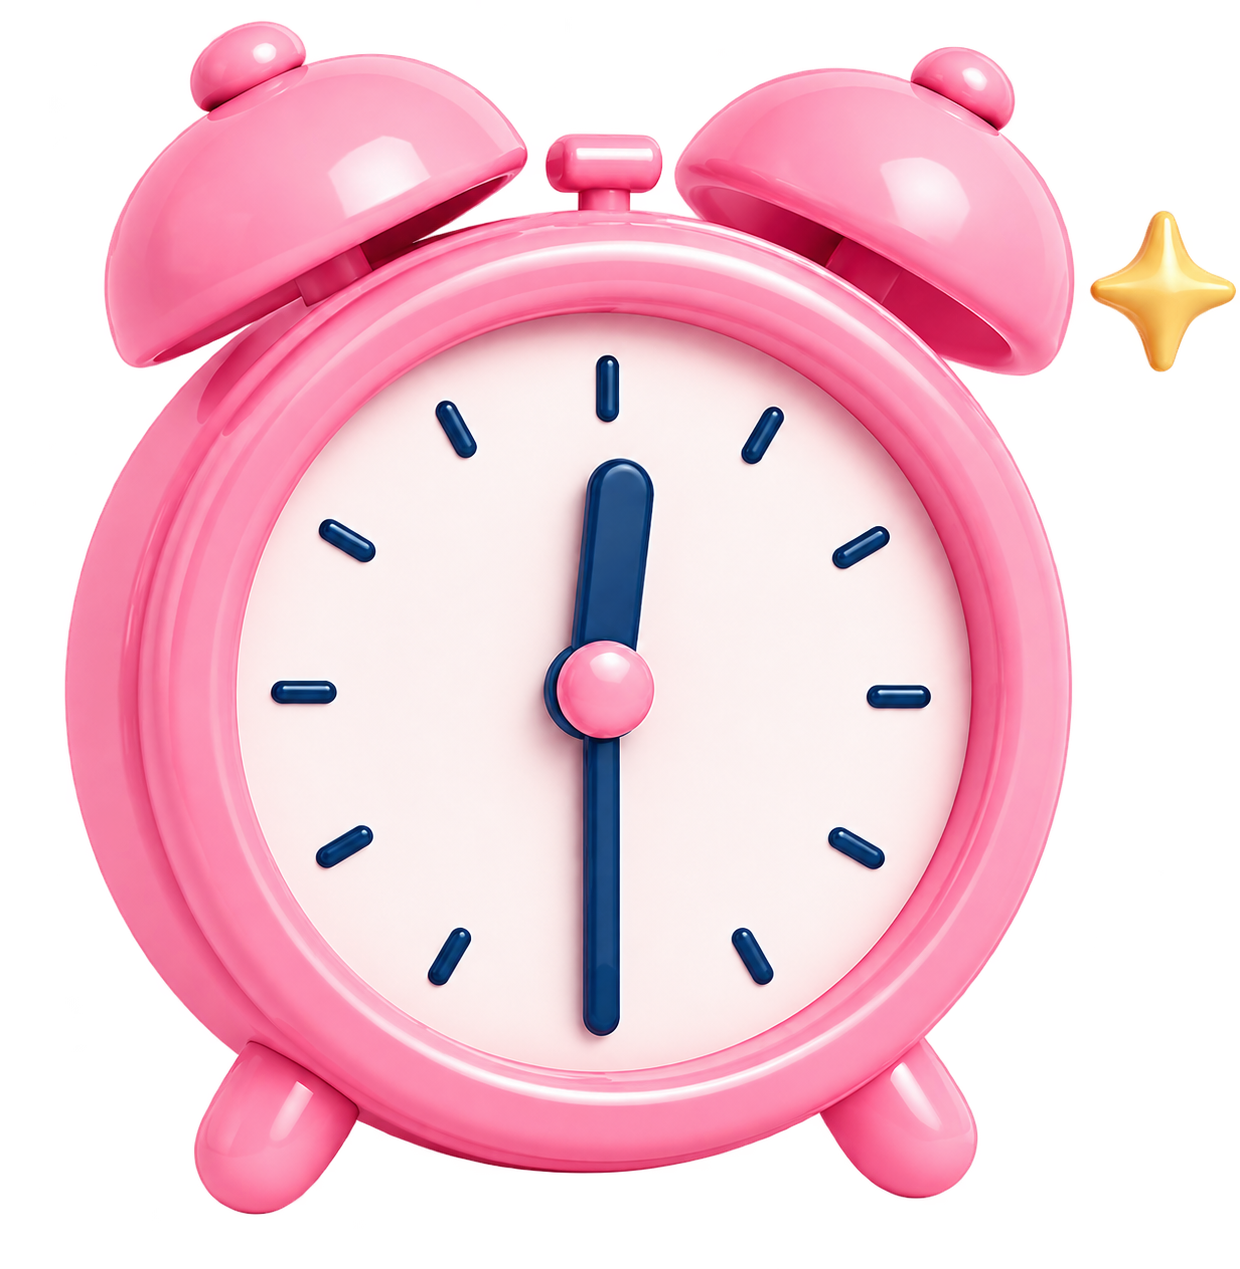
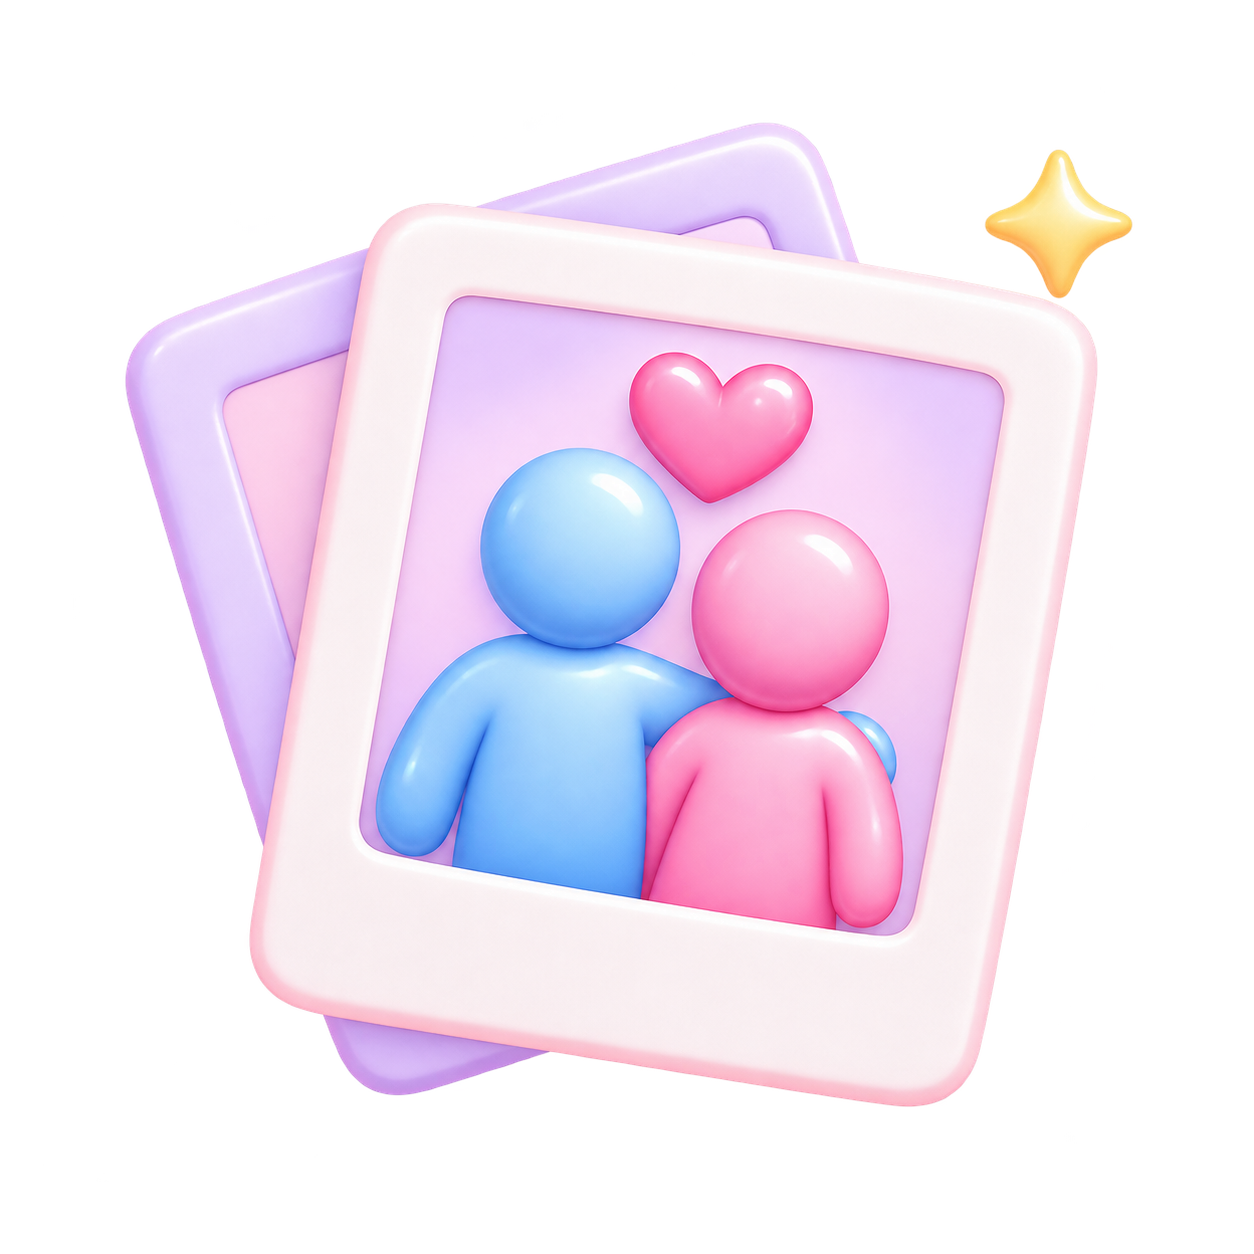
party section bg, twilio checkbox

diff --git a/src/app/new-reveal/page.tsx b/src/app/new-reveal/page.tsx
@@ -18,9 +18,7 @@ import {
   Plus,
   Trash2,
   AlertCircle,
-  Heart,
   ChevronDown,
-  Star,
 } from "lucide-react";
 
 
@@ -111,21 +109,19 @@ function formatRevealDate(d: Date | null): string {
 function SectionHeader({
   iconSrc,
   title,
-  accent,
+  decorSrc,
 }: {
   iconSrc: string;
   title: string;
-  accent: "pink" | "blue";
+  decorSrc: string;
 }) {
-  const main = accent === "pink" ? "#E8449A" : "#3A9FE8";
-  const contrast = accent === "pink" ? "#3A9FE8" : "#E8449A";
   return (
     <div className="flex items-center justify-between gap-3 mb-5 pb-4 border-b border-white/50">
       <div className="flex items-center gap-4 min-w-0">
         <img
           src={iconSrc}
           alt=""
-          className="w-20 h-20 sm:w-24 sm:h-24 object-contain shrink-0"
+          className="w-20 h-20 sm:w-24 sm:h-24 object-contain shrink-0 [filter:drop-shadow(0_6px_14px_rgba(88,28,135,0.35))]"
           onError={(e) => {
             (e.currentTarget as HTMLImageElement).style.display = "none";
           }}
@@ -137,11 +133,14 @@ function SectionHeader({
           {title}
         </h2>
       </div>
-      <div className="hidden sm:flex items-center gap-1 shrink-0 opacity-80">
-        <Star className="w-3.5 h-3.5" style={{ color: contrast, fill: contrast }} />
-        <Heart className="w-5 h-5" style={{ color: main, fill: main }} />
-        <Star className="w-3 h-3 opacity-60" style={{ color: main, fill: main }} />
-      </div>
+      <img
+        src={decorSrc}
+        alt=""
+        className="hidden sm:block w-32 h-32 object-contain shrink-0 opacity-90 [filter:drop-shadow(0_6px_14px_rgba(88,28,135,0.35))]"
+        onError={(e) => {
+          (e.currentTarget as HTMLImageElement).style.display = "none";
+        }}
+      />
     </div>
   );
 }
@@ -337,9 +336,6 @@ export default function NewRevealPage() {
       if (!revealerEmail.trim()) return "Please enter the revealer's email.";
       if (!/^[^\s@]+@[^\s@]+\.[^\s@]+$/.test(revealerEmail.trim())) {
         return "Please enter a valid revealer email.";
-      }
-      if (registryUrl.trim() && !/^https?:\/\//.test(registryUrl.trim())) {
-        return "Please enter a valid registry link (starting with http:// or https://).";
       }
     }
 
@@ -798,8 +794,8 @@ export default function NewRevealPage() {
             </div>
 
             {/* Section 2: Family Details */}
-            <div className="relative overflow-hidden bg-gradient-to-br from-white/65 via-white/55 to-[#3A9FE8]/10 backdrop-blur-md border border-white/50 rounded-3xl p-6 md:p-8 shadow-sm space-y-6">
-              <SectionHeader iconSrc="/images/icon-family.png" title="2. Family Details" accent="blue" />
+            <div className="relative overflow-hidden bg-gradient-to-br from-white/65 via-white/55 to-[#8B5CF6]/10 backdrop-blur-md border border-white/50 rounded-3xl p-6 md:p-8 shadow-sm space-y-6">
+              <SectionHeader iconSrc="/images/icon-family.png" title="2. Family Details" decorSrc="/images/icon-family-decor.png" />
 
               <div className="space-y-4">
                 <div className="flex flex-col gap-1.5">
@@ -814,10 +810,12 @@ export default function NewRevealPage() {
                     placeholder="e.g. Sarah &amp; Michael"
                     value={parentName}
                     onChange={(e) => {
-                      let val = e.target.value;
+                      const raw = e.target.value;
+                      const isDeleting = raw.length < parentName.length;
+                      let val = raw;
                       val = val ? val.charAt(0).toUpperCase() + val.slice(1) : "";
 
-                      if (val.endsWith(" ") && !val.includes("&")) {
+                      if (!isDeleting && val.endsWith(" ") && !val.includes("&")) {
                         const firstWord = val.slice(0, -1);
                         if (firstWord.length > 0 && !firstWord.includes(" ")) {
                           val = `${firstWord} & `;
@@ -894,10 +892,10 @@ export default function NewRevealPage() {
 
             {/* Section 3: Photo Upload (Bundle of Joy only) */}
             {isPremiumPlan && (
-              <div className="relative overflow-hidden bg-gradient-to-br from-white/65 via-white/55 to-[#E8449A]/10 backdrop-blur-md border border-white/50 rounded-3xl p-6 md:p-8 shadow-sm space-y-4">
-                <SectionHeader iconSrc="/images/icon-photo.png" title="3. Photo Upload" accent="pink" />
+              <div className="relative overflow-hidden bg-gradient-to-br from-white/65 via-white/55 to-[#8B5CF6]/10 backdrop-blur-md border border-white/50 rounded-3xl p-6 md:p-8 shadow-sm space-y-4">
+                <SectionHeader iconSrc="/images/icon-photo.png" title="3. Photo Upload" decorSrc="/images/icon-photo-decor.png" />
 
-                <div className="grid grid-cols-3 gap-4" role="region" aria-label="Photo slots grid">
+                <div className="grid grid-cols-3 sm:grid-cols-5 gap-4" role="region" aria-label="Photo slots grid">
                   {Array.from({ length: PHOTO_MAX }).map((_, i) => {
                     const file = photoFiles[i];
                     const url = previewUrls[i];
@@ -969,11 +967,11 @@ export default function NewRevealPage() {
 
             {/* Section 4: Reveal Schedule */}
             {mode === "reveal" && (
-              <div className="relative overflow-hidden bg-gradient-to-br from-white/65 via-white/55 to-[#3A9FE8]/10 backdrop-blur-md border border-white/50 rounded-3xl p-6 md:p-8 shadow-sm space-y-6">
+              <div className="relative overflow-hidden bg-gradient-to-br from-white/65 via-white/55 to-[#8B5CF6]/10 backdrop-blur-md border border-white/50 rounded-3xl p-6 md:p-8 shadow-sm space-y-6">
                 <SectionHeader
                   iconSrc="/images/icon-schedule.png"
                   title={`${isPremiumPlan ? "4." : "3."} Schedule`}
-                  accent="blue"
+                  decorSrc="/images/icon-schedule-decor.png"
                 />
 
                 <div className="grid grid-cols-1 sm:grid-cols-2 gap-4">
@@ -1112,13 +1110,13 @@ export default function NewRevealPage() {
             {mode === "reveal" && (() => {
               const isEmailValid = /^[^\s@]+@[^\s@]+\.[^\s@]+$/.test(revealerEmail.trim());
               return (
-                <div className={`relative overflow-hidden bg-gradient-to-br from-white/65 via-white/55 to-[#E8449A]/10 backdrop-blur-md border rounded-3xl p-6 md:p-8 space-y-6 transition-all duration-500 ${
+                <div className={`relative overflow-hidden bg-gradient-to-br from-white/65 via-white/55 to-[#8B5CF6]/10 backdrop-blur-md border rounded-3xl p-6 md:p-8 space-y-6 transition-all duration-500 ${
                   isEmailValid ? "shadow-2xl border-[#E8449A]/30 ring-4 ring-[#E8449A]/5" : "border-white/50 shadow-sm"
                 }`}>
                   <SectionHeader
                     iconSrc="/images/icon-revealer.png"
                     title={`${isPremiumPlan ? "5." : "4."} Revealer Details`}
-                    accent="pink"
+                    decorSrc="/images/icon-revealer-decor.png"
                   />
 
                   <div className="grid grid-cols-1 sm:grid-cols-3 gap-4">
@@ -1186,16 +1184,16 @@ export default function NewRevealPage() {
 
             {/* Section 6: Gift Registry (paid plans only) */}
             {mode === "reveal" && !isBasicPlan && (
-              <div className="relative overflow-hidden bg-gradient-to-br from-white/65 via-white/55 to-[#E8449A]/10 backdrop-blur-md border border-white/50 shadow-sm rounded-3xl p-6 md:p-8 space-y-6">
-                <SectionHeader iconSrc="/images/icon-registry.png" title="6. Gift Registry" accent="pink" />
+              <div className="relative overflow-hidden bg-gradient-to-br from-white/65 via-white/55 to-[#8B5CF6]/10 backdrop-blur-md border border-white/50 shadow-sm rounded-3xl p-6 md:p-8 space-y-6">
+                <SectionHeader iconSrc="/images/icon-registry.png" title="6. Gift Registry" decorSrc="/images/icon-registry-decor.png" />
 
                 <div className="flex flex-col gap-1.5">
                   <label htmlFor="registryUrl" className="text-xs font-bold text-gray-500 uppercase tracking-wider">Gift Registry Link (optional)</label>
                   <input
                     id="registryUrl"
                     className="w-full bg-white border border-gray-200 rounded-xl px-4 py-3 text-sm text-gray-900 placeholder-gray-400 focus:outline-none focus:ring-2 focus:ring-[#3A9FE8] focus:border-[#3A9FE8] disabled:bg-gray-50 disabled:text-gray-400 transition-all font-medium"
-                    type="url"
-                    placeholder="https://www.yourregistry.com/..."
+                    type="text"
+                    placeholder="www.yourregistry.com/..."
                     value={registryUrl}
                     onChange={(e) => setRegistryUrl(e.target.value)}
                     disabled={loading}

diff --git a/src/app/dashboard/page.tsx b/src/app/dashboard/page.tsx
@@ -530,6 +530,7 @@ function DashboardContent() {
   ]);
   const [guestImportSummary, setGuestImportSummary] = useState<ImportSummary | null>(null);
   const [sendingInvites, setSendingInvites] = useState(false);
+  const [smsConsent, setSmsConsent] = useState(false);
   const [openingPartyId, setOpeningPartyId] = useState<string | null>(null);
   const [startingReveal, setStartingReveal] = useState(false);
   const [guestRows, setGuestRows] = useState<GuestRow[]>([]);
@@ -883,6 +884,10 @@ function DashboardContent() {
     }
     if (invalid.length > 0) {
       setToast({ type: "error", message: "Each guest needs a name and valid email before sending." });
+      return;
+    }
+    if (!smsConsent) {
+      setToast({ type: "error", message: "Please authorize SMS invitations before sending." });
       return;
     }
 
@@ -1361,8 +1366,8 @@ function DashboardContent() {
                         </span>
                         <div className="flex flex-col sm:flex-row gap-2">
                           <input
-                            type="url"
-                            placeholder="https://www.yourregistry.com/..."
+                            type="text"
+                            placeholder="www.yourregistry.com/..."
                             value={registryDrafts[reveal.id] ?? reveal.registryUrl ?? ""}
                             onChange={(e) =>
                               setRegistryDrafts((prev) => ({ ...prev, [reveal.id]: e.target.value }))
@@ -1628,8 +1633,23 @@ function DashboardContent() {
                 </table>
               </div>
 
+              {/* SMS Consent */}
+              <div className="pt-6 border-t border-gray-100">
+                <label className="flex items-start gap-2.5 cursor-pointer select-none">
+                  <input
+                    type="checkbox"
+                    checked={smsConsent}
+                    onChange={(e) => setSmsConsent(e.target.checked)}
+                    className="mt-0.5 w-4 h-4 shrink-0 rounded border-gray-300 text-[#E8449A] focus:outline-none focus:ring-2 focus:ring-[#3A9FE8] cursor-pointer"
+                  />
+                  <span className="text-[11px] text-gray-500 font-medium leading-normal">
+                    By clicking &quot;Submit &amp; Send Links&quot;, you authorize Virtual Gender Reveal to send SMS invitations and event reminders to the phone numbers you provide. Standard message and data rates may apply. Recipients may reply STOP to opt out.
+                  </span>
+                </label>
+              </div>
+
               {/* Bottom Action Bar */}
-              <div className="flex flex-col md:flex-row md:items-start justify-between gap-6 pt-6 border-t border-gray-100">
+              <div className="flex flex-col md:flex-row md:items-start justify-between gap-6">
                 {/* Left group: Add Guest Row */}
                 <div className="flex flex-col gap-2 w-full md:w-auto">
                   <button
@@ -1650,7 +1670,7 @@ function DashboardContent() {
                   <button
                     type="button"
                     onClick={() => sendGuestInvites(latestPartyReveal.id)}
-                    disabled={sendingInvites}
+                    disabled={sendingInvites || !smsConsent}
                     className="w-full md:w-auto bg-gradient-to-r from-[#E8449A] to-[#3A9FE8] text-white hover:opacity-95 font-bold text-xs uppercase tracking-wider rounded-xl py-3.5 px-6 disabled:opacity-50 transition-all shadow-md shadow-[#e8449a0c] flex items-center justify-center gap-2 focus:outline-none focus:ring-2 focus:ring-[#3A9FE8]"
                   >
                     {sendingInvites ? (

diff --git a/src/app/guest/[token]/page.tsx b/src/app/guest/[token]/page.tsx
@@ -554,7 +554,19 @@ export default function GuestInvitePage() {
           </header>
 
           {/* 2. REVEAL VIDEO / COUNTDOWN AREA (Centered Glassmorphic Video Box - Full Width) */}
-          <section className={`relative overflow-hidden transition-all duration-300 w-full ${isLive && videoUrl ? "bg-slate-950/20 backdrop-blur-xl border border-white/10 shadow-2xl rounded-[24px]" : "bg-white/45 backdrop-blur-[30px] border border-white/50 border-[1.5px] rounded-[32px] py-4 px-5 md:py-5 md:px-8 shadow-2xl flex flex-col items-center justify-center"}`}>
+          <section className={`relative overflow-hidden transition-all duration-300 w-full ${isLive && videoUrl ? "bg-slate-950/20 backdrop-blur-xl border border-white/10 shadow-2xl rounded-[24px]" : "border border-white/50 border-[1.5px] rounded-[32px] py-4 px-5 md:py-5 md:px-8 shadow-2xl flex flex-col items-center justify-center"}`}>
+            {!isLive && (
+              <>
+                {/* Full-bleed background image for this section */}
+                <div
+                  className="absolute inset-0 bg-[url('/images/countdown-section-bg.png')] bg-cover bg-center pointer-events-none"
+                  aria-hidden="true"
+                />
+                {/* Transparent tint over the image — no blur, image stays sharp */}
+                <div className="absolute inset-0 bg-white/45 pointer-events-none" aria-hidden="true" />
+              </>
+            )}
+
             {/* Ambient subtle celebratory pink/blue glows in the corners */}
             <div className="absolute top-0 left-0 w-48 h-48 bg-[#E8449A]/15 blur-3xl pointer-events-none" />
             <div className="absolute bottom-0 right-0 w-48 h-48 bg-[#3A9FE8]/15 blur-3xl pointer-events-none" />
@@ -601,10 +613,7 @@ export default function GuestInvitePage() {
                       ✨ 👶🏼 THE BIG REVEAL IN 👶🏾 ✨
                     </h2>
                     
-                    <p className="text-[11px] md:text-xs text-slate-500 font-bold italic text-center mt-0.5">
-                      🧸 Every second brings you closer to meeting your little miracle. 🍼
-                    </p>
-
+                   
                     <div className="w-full flex items-center justify-center mt-4 w-full max-w-[620px]">
                       <div className="relative w-full aspect-[3/2] bg-[url('/images/countdown-cards.png')] bg-contain bg-no-repeat bg-center select-none overflow-hidden @container">
                         

diff --git a/src/app/api/reveal/registry/route.ts b/src/app/api/reveal/registry/route.ts
@@ -16,6 +16,14 @@ function isValidHttpUrl(value: string): boolean {
   }
 }
 
+// Users often paste a bare domain (e.g. "yourregistry.com/list") without a
+// protocol — assume https:// rather than rejecting it.
+function normalizeRegistryUrl(value: string): string {
+  const trimmed = value.trim();
+  if (!trimmed) return "";
+  return /^https?:\/\//i.test(trimmed) ? trimmed : `https://${trimmed}`;
+}
+
 export async function POST(req: NextRequest) {
   const session = await verifyAuthHeader(req.headers.get("Authorization"));
   if (!session) {
@@ -29,9 +37,9 @@ export async function POST(req: NextRequest) {
   }
 
   const rawUrl = body?.registryUrl;
-  const trimmedUrl = typeof rawUrl === "string" ? rawUrl.trim() : "";
+  const trimmedUrl = normalizeRegistryUrl(typeof rawUrl === "string" ? rawUrl : "");
   if (trimmedUrl && !isValidHttpUrl(trimmedUrl)) {
-    return NextResponse.json({ error: "Please provide a valid registry link (starting with http:// or https://)." }, { status: 400 });
+    return NextResponse.json({ error: "Please provide a valid registry link." }, { status: 400 });
   }
 
   const db = getAdminDb();

diff --git a/src/app/doctor/[token]/page.tsx b/src/app/doctor/[token]/page.tsx
@@ -99,7 +99,7 @@ export default function DoctorTokenPage() {
                 className={`gender-card-btn boy-card ${selected === "boy" ? "selected" : ""}`}
               >
                 <img src="/images/boyVote.png" alt="Team Boy" className="gender-avatar-img" />
-                <div className="gender-card-title boy-text">Team Boy</div>
+                <div className="gender-card-title boy-text">It&apos;s a Boy</div>
                 <div className="gender-card-desc">Click here if the baby is a boy</div>
               </button>
 
@@ -110,7 +110,7 @@ export default function DoctorTokenPage() {
                 className={`gender-card-btn girl-card ${selected === "girl" ? "selected" : ""}`}
               >
                 <img src="/images/girlVote.png" alt="Team Girl" className="gender-avatar-img" />
-                <div className="gender-card-title girl-text">Team Girl</div>
+                <div className="gender-card-title girl-text">It&apos;s a Girl</div>
                 <div className="gender-card-desc">Click here if the baby is a girl</div>
               </button>
             </div>

diff --git a/src/app/api/create-reveal/route.ts b/src/app/api/create-reveal/route.ts
@@ -55,6 +55,14 @@ function isValidHttpUrl(value: string): boolean {
   }
 }
 
+// Users often paste a bare domain (e.g. "yourregistry.com/list") without a
+// protocol — assume https:// rather than rejecting it.
+function normalizeRegistryUrl(value: string): string {
+  const trimmed = value.trim();
+  if (!trimmed) return "";
+  return /^https?:\/\//i.test(trimmed) ? trimmed : `https://${trimmed}`;
+}
+
 function relationToLabel(relation: RevealerRelation): string {
   switch (relation) {
     case "doctor": return "doctor or midwife";
@@ -118,10 +126,10 @@ export async function POST(req: NextRequest) {
   } = body;
 
   const parsedRevealAtMs = revealAtMs ?? null;
-  const trimmedRegistryUrl = registryUrl?.trim() || "";
+  const trimmedRegistryUrl = normalizeRegistryUrl(registryUrl?.trim() || "");
   if (trimmedRegistryUrl && !isValidHttpUrl(trimmedRegistryUrl)) {
     return NextResponse.json(
-      { error: "Please provide a valid registry link (starting with http:// or https://)." },
+      { error: "Please provide a valid registry link." },
       { status: 400 }
     );
   }

diff --git a/src/lib/types.ts b/src/lib/types.ts
@@ -182,7 +182,7 @@ export const INITIAL_STAGES: EnquiryStages = {
 // Photo constraints (single source of truth)
 
 export const PHOTO_MIN = 0;
-export const PHOTO_MAX = 3;
+export const PHOTO_MAX = 5;
 
 // Plan definitions (source of truth for the dashboard + pricing)
 
